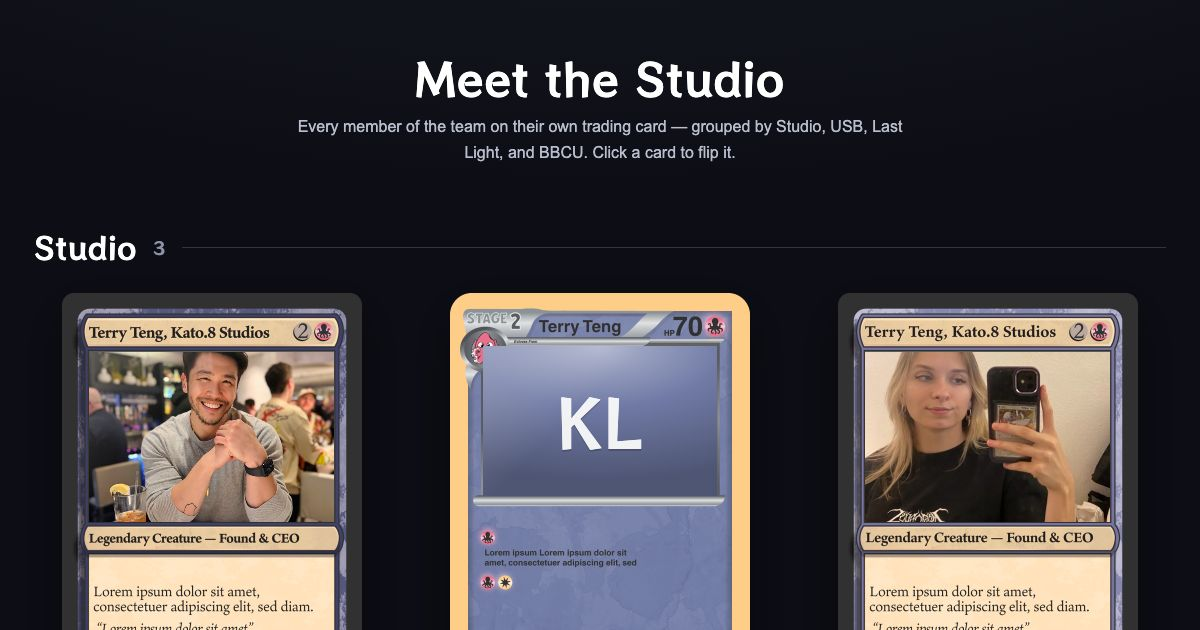
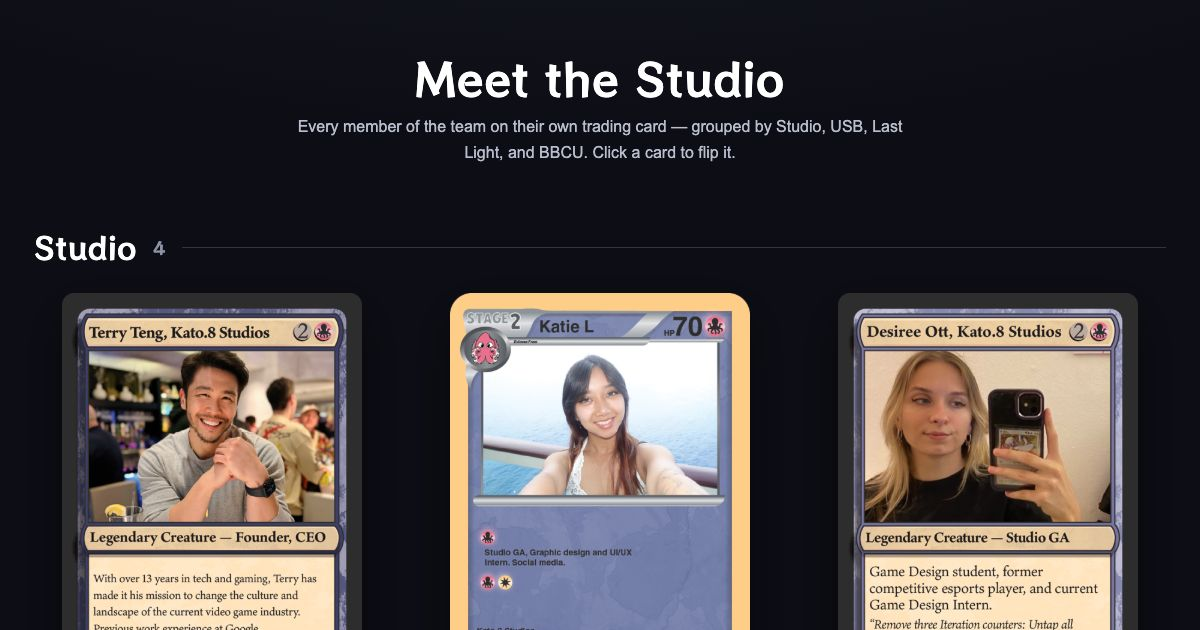
studio-bios: use the designer's finished cards (10-25)
Every person now has a finished, personalized card from the designer,
set as their `cardImage` (public/assets/sandbox/cards/<slug>.png,
renamed from the "K8_TC_TeamCards_* copy N" exports and resized to
500x700).

- /studio-bios renders the finished card through the existing
  cardImage path; /studio-bios-frames uses it as the front of the flip
  card, falling back to blank frame + photo when a card is missing.
- New team member: Ashlee W (Studio, Magic, dark pink).
- Blank titles and bios filled in from the new cards so captions and
  alt text match what's printed.
- Card images lazy-load; alt text includes the title.

diff --git a/src/data/studioBios.js b/src/data/studioBios.js
@@ -11,8 +11,10 @@
  * a card component renders that image in place of the generated layout.
  *
  * Source: the team's "Website_ProfilePic" sheet (Name, Style, Color, Team,
- * Title, Bio) plus the profile pictures that came with it. Blank titles
- * and bios are left empty on purpose — the frames skip empty fields.
+ * Title, Bio) plus the profile pictures that came with it. Every person
+ * now has the designer's finished card (`cardImage`, in
+ * public/assets/sandbox/cards/<slug>.png); the text fields still feed
+ * captions and alt text, and the generated frames if a card is removed.
  *
  * Record shape (all optional unless noted):
  *   slug       — REQUIRED. React key + stable id.
@@ -99,66 +101,72 @@ export const studioBios = [
     color: 'dark-blue',
     monogram: 'TT',
     avatar: '/assets/sandbox/team/terry-teng.jpg',
+    cardImage: '/assets/sandbox/cards/terry-teng.png',
     bio: 'With over 13 years in tech and gaming, Terry has made it his mission to change the culture and landscape of the current video game industry. Previous work experience at Google, Meta/Facebook, Riot Games, Xsolla, etc.',
     specialties: [],
   },
   {
     name: 'Ana Helena Vieira (Intern)',
     slug: 'ana-helena-vieira',
-    role: '',
+    role: 'Developer',
     team: 'usb',
     style: 'pokemon',
     color: 'light-pink',
     monogram: 'AV',
     avatar: '/assets/sandbox/team/ana-helena-vieira.jpg',
+    cardImage: '/assets/sandbox/cards/ana-helena-vieira.png',
     bio: 'Someone that fixes bugs',
     specialties: [],
   },
   {
     name: 'George Wang',
     slug: 'george-wang',
-    role: '',
+    role: 'BBCU Game Dev',
     team: 'bbcu',
     style: 'magic',
     color: 'dark-blue',
     monogram: 'GW',
     avatar: '/assets/sandbox/team/george-wang.jpg',
+    cardImage: '/assets/sandbox/cards/george-wang.png',
     bio: '',
     specialties: [],
   },
   {
     name: 'Sophia Jones',
     slug: 'sophia-jones',
-    role: '',
+    role: 'BBCU Game Dev',
     team: 'bbcu',
     style: 'magic',
     color: 'light-blue',
     monogram: 'SJ',
     avatar: '/assets/sandbox/team/sophia-jones.jpg',
+    cardImage: '/assets/sandbox/cards/sophia-jones.png',
     bio: '',
     specialties: [],
   },
   {
     name: 'Keolani',
     slug: 'keolani',
-    role: '',
+    role: '2D Artist',
     team: 'usb',
     style: 'pokemon',
     color: 'dark-pink',
     monogram: 'K',
     avatar: '/assets/sandbox/team/keolani.jpg',
-    bio: '',
+    cardImage: '/assets/sandbox/cards/keolani.png',
+    bio: '2D artist and general visuals.',
     specialties: [],
   },
   {
     name: 'Pride',
     slug: 'pride',
-    role: '',
+    role: '2D and 3D Artist',
     team: 'usb',
     style: 'pokemon',
     color: 'dark-blue',
     monogram: 'P',
     avatar: '/assets/sandbox/team/pride.jpg',
+    cardImage: '/assets/sandbox/cards/pride.png',
     bio: 'Long time game designer, both tabletop and digital. Loves classic games and old-school vibes.',
     specialties: [],
   },
@@ -171,6 +179,7 @@ export const studioBios = [
     color: 'dark-blue',
     monogram: 'JN',
     avatar: '/assets/sandbox/team/justin-n.jpg',
+    cardImage: '/assets/sandbox/cards/justin-n.png',
     bio: '3D Artist with over 10 years of experience in the games and film industry with a focus on building fascinating and unique environments.',
     specialties: [],
   },
@@ -183,7 +192,8 @@ export const studioBios = [
     color: 'dark-blue',
     monogram: 'HH',
     avatar: '/assets/sandbox/team/hailey-h.jpg',
-    bio: '',
+    cardImage: '/assets/sandbox/cards/hailey-h.png',
+    bio: '2D and general visuals.',
     specialties: [],
   },
   {
@@ -195,53 +205,58 @@ export const studioBios = [
     color: 'dark-blue',
     monogram: 'IR',
     avatar: '/assets/sandbox/team/ian-r.jpg',
+    cardImage: '/assets/sandbox/cards/ian-r.png',
     bio: 'Music and audio professional based in San Francisco, California whose compositions and arrangements for film, installation, and stage have been performed throughout the United States and Europe. As an emerging game audio professional, Ian\'s music and audio design have also been featured on several new indie projects. Ian holds a Master of Music in Technology and Applied Composition from the San Francisco Conservatory of Music and enjoys singing dumb songs to his cat.',
     specialties: [],
   },
   {
     name: 'Katie L',
     slug: 'katie-l',
-    role: '',
+    role: 'Graphic Design and UI/UX Intern',
     team: 'studio',
     style: 'pokemon',
     color: 'light-blue',
     monogram: 'KL',
-    bio: '',
+    cardImage: '/assets/sandbox/cards/katie-l.png',
+    bio: 'Graphic design and UI/UX intern. Social media.',
     specialties: [],
   },
   {
     name: 'Lindsay W',
     slug: 'lindsay-w',
-    role: '',
+    role: '2D Artist and Animator',
     team: 'usb',
     style: 'pokemon',
     color: 'light-blue',
     monogram: 'LW',
     avatar: '/assets/sandbox/team/lindsay-w.jpg',
+    cardImage: '/assets/sandbox/cards/lindsay-w.png',
     bio: '2D animator and artist.',
     specialties: [],
   },
   {
     name: 'Rhianna',
     slug: 'rhianna',
-    role: '',
+    role: 'Game Development and Design',
     team: 'usb',
     style: 'pokemon',
     color: 'dark-pink',
     monogram: 'R',
     avatar: '/assets/sandbox/team/rhianna.jpg',
-    bio: '',
+    cardImage: '/assets/sandbox/cards/rhianna.png',
+    bio: 'Game development and design. General visuals.',
     specialties: [],
   },
   {
     name: 'Liz Polilli',
     slug: 'liz-polilli',
-    role: '',
+    role: '2D Artist',
     team: 'usb',
     style: 'pokemon',
     color: 'dark-pink',
     monogram: 'LP',
-    bio: '',
+    cardImage: '/assets/sandbox/cards/liz-polilli.png',
+    bio: '2D artist and general visuals.',
     specialties: [],
   },
   {
@@ -252,6 +267,7 @@ export const studioBios = [
     style: 'yugioh',
     color: 'dark-blue',
     monogram: 'RF',
+    cardImage: '/assets/sandbox/cards/ryan-folk.png',
     bio: '[Level/Design] All Digital Assets on the field can be manipulated and placed by this card. Using this effect in the Opponent\'s Standby Phase adds 1500 ATK and DEF Points to every monster on the player\'s side of the field.',
     specialties: [],
   },
@@ -264,6 +280,7 @@ export const studioBios = [
     color: 'dark-blue',
     monogram: 'MG',
     avatar: '/assets/sandbox/team/marcus-gordon.jpg',
+    cardImage: '/assets/sandbox/cards/marcus-gordon.png',
     bio: 'Graduate from the University of Southern California (USC) Computer Science Games Major; a world-leading joint program between the Viterbi School of Engineering and the School of Cinematic Arts. Over 12 years of experience in a variety of fields of game design including 3D artist, programmer, and musical composer. Achieved rare honor of supporting two Senior Capstone Game Design projects as a Freshman. Competitively selected for both USC\'s National Honors Society and the initial student group for a new joint Microsoft Games and USC Computer Science Games development program.',
     specialties: [],
   },
@@ -276,6 +293,7 @@ export const studioBios = [
     color: 'dark-blue',
     monogram: 'MP',
     avatar: '/assets/sandbox/team/matthew-pablo.jpg',
+    cardImage: '/assets/sandbox/cards/matthew-pablo.png',
     bio: 'An industry audio leader with over 14 years of experience in games, music, and entertainment, Matthew has led audio alongside legendary game designer Warren Spector and created music and sound for Disney, Pokémon, Marvel, AMC, and collaborated with artists such as deadmau5. A Berklee College of Music graduate, his work spans audio direction, sound design, composition, technical audio, music supervision, and music production.',
     specialties: [],
   },
@@ -288,7 +306,20 @@ export const studioBios = [
     color: 'light-blue',
     monogram: 'DO',
     avatar: '/assets/sandbox/team/desiree-ott.jpg',
+    cardImage: '/assets/sandbox/cards/desiree-ott.png',
     bio: 'Game Design student, former competitive esports player, and current Game Design Intern.\n\nRemove three Iteration counters: Untap all Designers you control. They gain “The players will figure it out” until end of turn.',
+    specialties: [],
+  },
+  {
+    name: 'Ashlee W',
+    slug: 'ashlee-w',
+    role: 'Graphic Design Intern',
+    team: 'studio',
+    style: 'magic',
+    color: 'dark-pink',
+    monogram: 'AW',
+    cardImage: '/assets/sandbox/cards/ashlee-w.png',
+    bio: 'Graphic design intern from Houston, Texas. Undergrad student at UHCL.',
     specialties: [],
   },
   {
@@ -299,6 +330,7 @@ export const studioBios = [
     style: 'magic',
     color: 'dark-blue',
     monogram: 'RK',
+    cardImage: '/assets/sandbox/cards/ryan-kenfield.png',
     bio: 'Technical Designer with 5+ years in game development. Ryan has worked with companies like Disney Imagineering and Formula 1 creating games and interactives for their parks. Has created shows for Adult Swim Smalls and is always working on his own animated sitcom. Fun fact Ryan also is a Cannes award winning actor.',
     specialties: [],
   },
@@ -310,6 +342,7 @@ export const studioBios = [
     style: 'pokemon',
     color: 'light-pink',
     monogram: 'KH',
+    cardImage: '/assets/sandbox/cards/kit-hannay.png',
     bio: 'Kit is a comic artist, illustrator, and solo game developer from upstate NY. When she\'s not doodling, she can be found in a dark corner curled up with a book.',
     specialties: [],
   },

diff --git a/src/components/FrameBioCard.jsx b/src/components/FrameBioCard.jsx
@@ -11,9 +11,10 @@ import '../styles/studio-bios.css'
  * with their photo set into the frame's art window; clicking flips it to
  * that style's back (back-<style>.png).
  *
- * The frame images still carry the designer's sample text (name, stats,
- * rules text), so only the photo is personalized; the real name and title
- * sit in a caption under the card.
+ * When the person has a finished card from the designer (`cardImage`),
+ * that image is the front as-is. Otherwise the blank frame still carries
+ * the designer's sample text, so only the photo is personalized. Either
+ * way the real name and title sit in a caption under the card.
  *
  * Art-window boxes are measured from the 750×1050 source images, as
  * percentages so they scale with the card.
@@ -42,16 +43,18 @@ export default function FrameBioCard({ person }) {
           <span className="sbf-face sbf-face--front">
             <img
               className="sbf-face__img"
-              src={asset(`/assets/sandbox/frames/${style}-${color}.png`)}
+              src={asset(person.cardImage || `/assets/sandbox/frames/${style}-${color}.png`)}
               alt=""
               loading="lazy"
             />
-            <span
-              className="sbf-art"
-              style={{ ...ART_WINDOWS[style], '--sb-accent': getCardTheme(person).accent }}
-            >
-              <BioCardArt person={person} className="sbf-art__window" />
-            </span>
+            {!person.cardImage && (
+              <span
+                className="sbf-art"
+                style={{ ...ART_WINDOWS[style], '--sb-accent': getCardTheme(person).accent }}
+              >
+                <BioCardArt person={person} className="sbf-art__window" />
+              </span>
+            )}
           </span>
           <span className="sbf-face sbf-face--back">
             <img

diff --git a/src/data/homeSections.js b/src/data/homeSections.js
@@ -54,7 +54,7 @@ export const experiments = [
     path: '/studio-bios-frames',
     title: 'Studio Bios — card artwork',
     active: true,
-    description: 'Same team page built from the studio’s finished trading-card frame images instead of CSS-drawn frames. Each member’s photo sits in their frame’s art window, and cards flip on click to show the frame’s back. The frames still carry the designer’s sample text.',
+    description: 'Same team page with each member’s finished trading card from the designer; cards flip on click to show their frame’s back.',
   },
   {
     path: '/investors',

diff --git a/src/components/BioCard.jsx b/src/components/BioCard.jsx
@@ -28,7 +28,12 @@ export default function BioCard({ person, frameClass = '', children }) {
   if (person.cardImage) {
     return (
       <article className="sb-card sb-card--image">
-        <img className="sb-card__image" src={asset(person.cardImage)} alt={person.name} />
+        <img
+          className="sb-card__image"
+          src={asset(person.cardImage)}
+          alt={person.role ? `${person.name}, ${person.role}` : person.name}
+          loading="lazy"
+        />
       </article>
     )
   }
